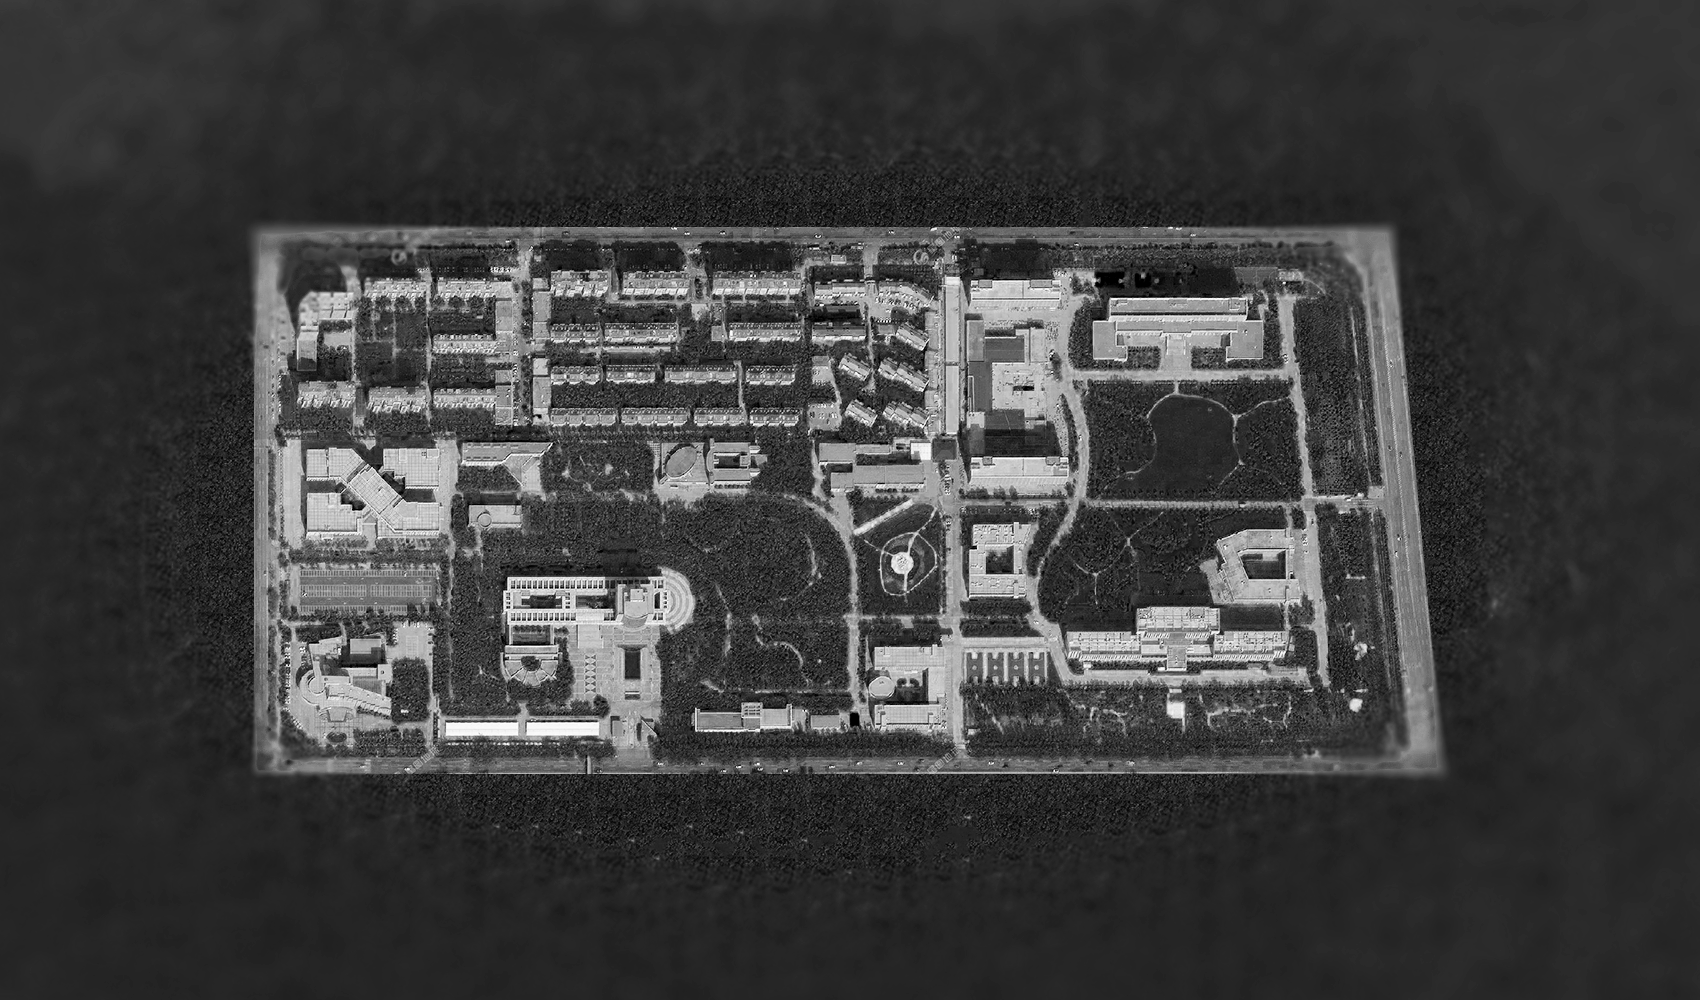
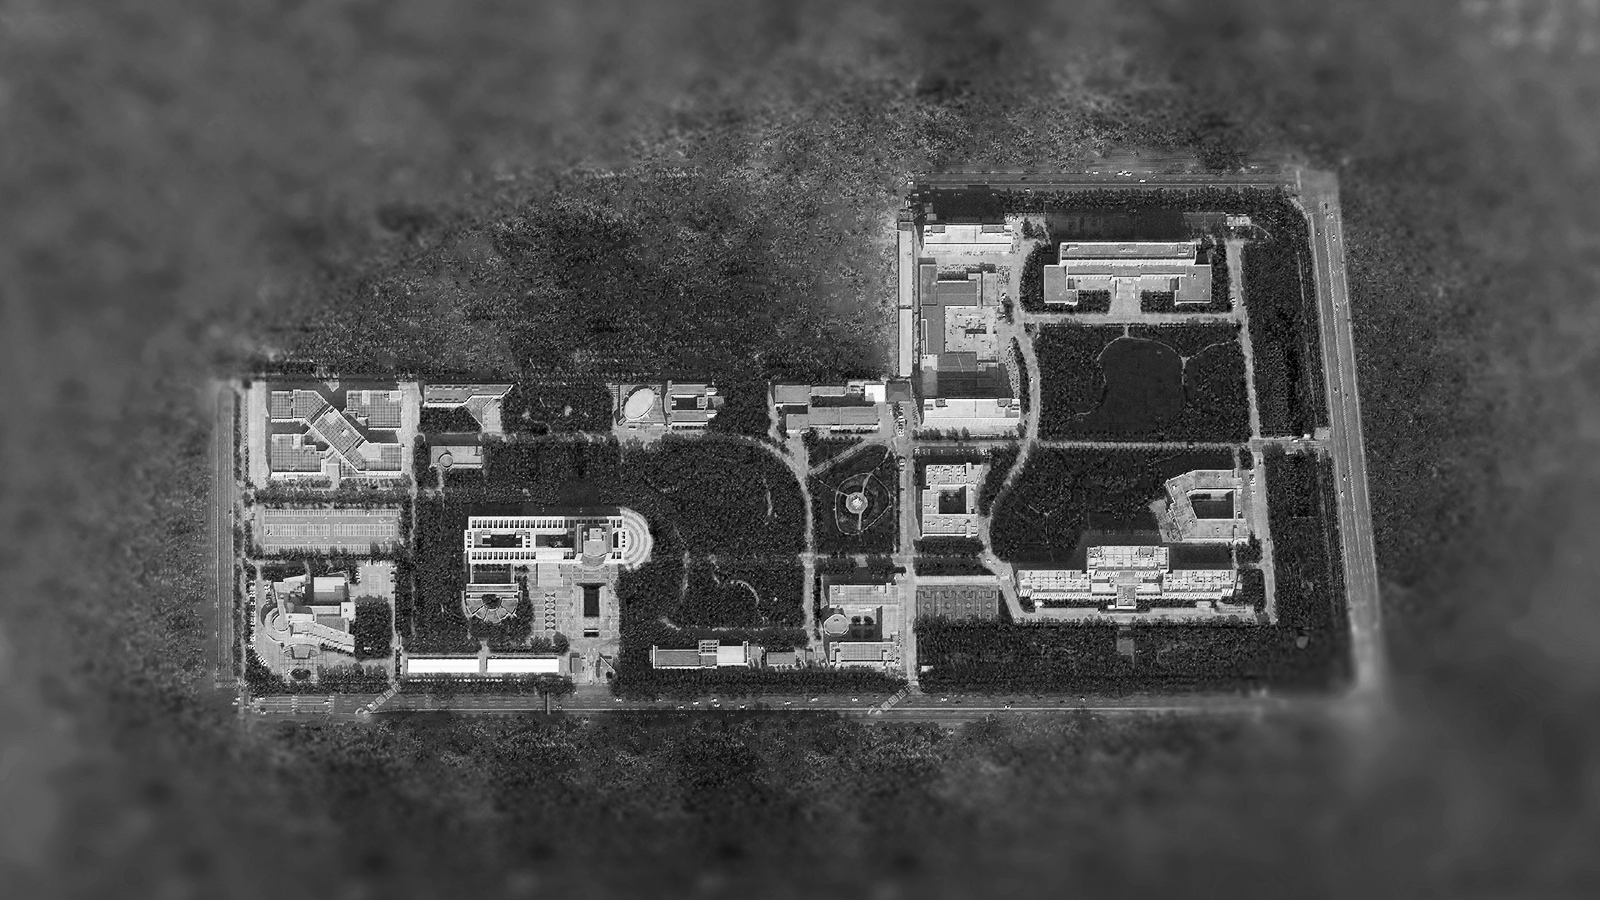
更换地图，优化过渡效果

diff --git a/assets/index.js b/assets/index.js
@@ -175,11 +175,11 @@ document.addEventListener('DOMContentLoaded', function() {
 
     // 图标数据 - 示例数据，可以根据需要修改
     const wencuiIconData = [
-        { x: 0.73, y: 0.443, icon: 'assets/img/icon/boss.png', class: 'icon-boss', title: '首领', content: '这是一个首领点，可以在这里挑战强大的敌人。' },
+        { x: 0.73, y: 0.443, icon: 'assets/img/icon/boss.png', class: 'icon-boss', title: '团委书记', content: '' },
         { x: 0.72, y: 0.48, icon: 'assets/img/icon/safe_box.png', class: 'icon-safe-box', title: '保险箱', content: '高价值容器<div class="divider"></div>高概率出现<div class="rewards"><img class="back-red" src="assets/img/rewards/heart-of-africa.png"></img><img class="back-red" src="assets/img/rewards/bust-of-claudius.png"></img><img class="back-red" src="assets/img/rewards/golden-gazelle.png"></img><img class="back-red" src="assets/img/rewards/precious-mechanical-watch.png"></img></div>' },
         { x: 0.7335, y: 0.4095, icon: 'assets/img/icon/small_safe_box.png', class: 'icon-safe-box', title: '骇客电脑', content: '高价值容器<div class="divider"></div>高概率出现<div class="rewards"><img class="back-red" src="assets/img/rewards/mandel-supercomputing-unit.png"></img><img class="back-red" src="assets/img/rewards/experimental-data.png"></img><img class="back-red" src="assets/img/rewards/quantum-storage.png"></img></div>' },
-        { x: 0.35, y: 0.3415, icon: 'assets/img/icon/boss.png', class: 'icon-boss', title: '首领', content: '这是一个首领点，可以在这里挑战强大的敌人。' },
-        { x: 0.3425, y: 0.29, icon: 'assets/img/icon/safe_box.png', class: 'icon-safe-box', title: '保险箱', content: '高价值容器<div class="divider"></div>高概率出现<div class="rewards"><img class="back-red" src="assets/img/rewards/heart-of-africa.png"></img><img class="back-red" src="assets/img/rewards/bust-of-claudius.png"></img><img class="back-red" src="assets/img/rewards/golden-gazelle.png"></img><img class="back-red" src="assets/img/rewards/precious-mechanical-watch.png"></img></div>' },
+        { x: 0.35, y: 0.3415, icon: 'assets/img/icon/boss.png', class: 'icon-boss', title: '书院领导', content: '' },
+        { x: 0.3425, y: 0.29, icon: 'assets/img/icon/safe_box.png', class: 'icon-safe-box', title: '保险箱', content: '高价值容器<div class="divider"></div>高概率出现<div class="rewards"><img class="back-red" src="assets/img/rewards/heart-of-africa.png"></img><img class="back-red" src="assets/img/rewards/gold-bar.png"></img><img class="back-red" src="assets/img/rewards/golden-gazelle.png"></img><img class="back-red" src="assets/img/rewards/precious-mechanical-watch.png"></img></div>' },
         { x: 0.495, y: 0.782, icon: 'assets/img/icon//evacuate_conditional.png', class: 'icon-evacuate', title: '南门撤离点', content: '撤离名额还有<span style="color: rgb(255, 236, 140);">1</span>名<div class="divider"></div>身份牌撤离点' },
         { x: 0.72, y: 0.402, icon: 'assets/img/icon/switch.png', class: 'icon-switch icon-connect', title: '拉闸', content: '启动两个开关以开启<span style="color: rgb(255, 236, 140);">拉闸撤离点：东门</span>' },
         { x: 0.754, y: 0.7, icon: 'assets/img/icon/switch.png', class: 'icon-switch icon-connect', title: '拉闸', content: '启动两个开关以开启<span style="color: rgb(255, 236, 140);">拉闸撤离点：东门</span>' },
@@ -191,7 +191,10 @@ document.addEventListener('DOMContentLoaded', function() {
         { x: 0.515, y: 0.315, icon: 'assets/img/icon/small_safe_box.png', class: 'icon-safe-box', title: '骇客电脑', content: '高价值容器<div class="divider"></div>高概率出现<div class="rewards"></div>' },
         { x: 0.76, y: 0.68, icon: 'assets/img/icon/small_safe_box.png', class: 'icon-safe-box', title: '骇客电脑', content: '高价值容器<div class="divider"></div>高概率出现<div class="rewards"></div>' },
         { x: 0.65, y: 0.31, icon: 'assets/img/icon/high_value_task.png', class: 'icon-task', title: '【高价值】', content: '任务内容<div class="divider"></div>地点：<div class="divider"></div>报酬：<div class="divider"></div>行动内概率产出<div class="rewards"></div>' },
-        { x: 0.1135, y: 0.6, icon: 'assets/img/icon/task.png', class: 'icon-task', title: '任务', content: '这里有一个任务等待完成。' },
+        { x: 0.71, y: 0.7, icon: 'assets/img/icon/task.png', class: 'icon-task', title: '任务', content: '任务内容<div class="divider"></div>地点：<div class="divider"></div>报酬：<div class="divider"></div>行动内概率产出<div class="rewards"></div>' },
+        { x: 0.555, y: 0.54, icon: 'assets/img/icon/task.png', class: 'icon-task', title: '任务', content: '任务内容<div class="divider"></div>地点：<div class="divider"></div>报酬：<div class="divider"></div>行动内概率产出<div class="rewards"></div>' },
+        { x: 0.46, y: 0.645, icon: 'assets/img/icon/task.png', class: 'icon-task', title: '任务', content: '任务内容<div class="divider"></div>地点：<div class="divider"></div>报酬：<div class="divider"></div>行动内概率产出<div class="rewards"></div>' },
+        { x: 0.26, y: 0.22, icon: 'assets/img/icon/task.png', class: 'icon-task', title: '任务', content: '任务内容<div class="divider"></div>地点：<div class="divider"></div>报酬：<div class="divider"></div>行动内概率产出<div class="rewards"></div>' },
     ];
 
     const wencuiLocationData = [
@@ -208,15 +211,17 @@ document.addEventListener('DOMContentLoaded', function() {
     
     // 示例：第二个地图的数据
     const helanshanIconData = [
-        { x: 0.5, y: 0.5, icon: 'assets/img/icon/boss.png', class: 'icon-boss', title: '首领', content: '这是另一个地图的首领点。' },
-        { x: 0.3, y: 0.7, icon: 'assets/img/icon/safe_box.png', class: 'icon-safe-box', title: '保险箱', content: '另一个地图的保险箱。' },
+        { x: 0.365, y: 0.62, icon: 'assets/img/icon/boss.png', class: 'icon-boss icon-mosaic', title: '校长', content: '' },
+        { x: 0.372, y: 0.6, icon: 'assets/img/icon/safe_box.png', class: 'icon-safe-box', title: '保险箱', content: '高价值容器<div class="divider"></div>高概率出现<div class="rewards"><img class="back-red" src="assets/img/rewards/heart-of-africa.png"></img><img class="back-red" src="assets/img/rewards/bust-of-claudius.png"></img><img class="back-red" src="assets/img/rewards/golden-gazelle.png"></img><img class="back-red" src="assets/img/rewards/precious-mechanical-watch.png"></img></div>' },
         { x: 0.8, y: 0.3, icon: 'assets/img/icon/evacuate_conditional.png', class: 'icon-evacuate', title: '撤离点', content: '另一个地图的撤离点。' }
     ];
     
     const helanshanLocationData = [
-        { x: 0.5, y: 0.5, title: '中央广场'},
-        { x: 0.3, y: 0.7, title: '北区'},
-        { x: 0.8, y: 0.3, title: '南区'}
+        { x: 0.372, y: 0.59, title: '主楼'},
+        { x: 0.312, y: 0.636, title: '兰山一教'},
+        { x: 0.2, y: 0.69, title: '学术交流中心'},
+        { x: 0.208, y: 0.477, title: '未来教室'},
+        { x: 0.21, y: 0.58, title: '停车场'}
     ];
     
     // 示例：第三个地图的数据
@@ -237,16 +242,16 @@ document.addEventListener('DOMContentLoaded', function() {
             imageUrl: 'assets/img/map/wencui.png',
             iconData: wencuiIconData,
             locationData: wencuiLocationData,
-            name: '文昌校区'
+            name: '文萃校区'
         },
         'helanshan': {
-            imageUrl: 'assets/img/map/helanshan.png', // 使用相同的图片作为示例
+            imageUrl: 'assets/img/map/helanshan.png',
             iconData: helanshanIconData,
             locationData: helanshanLocationData,
             name: '贺兰山校区'
         },
         'huaiyuan': {
-            imageUrl: 'assets/img/map/huaiyuan.png', // 使用相同的图片作为示例
+            imageUrl: 'assets/img/map/huaiyuan.png',
             iconData: huaiyuanIconData,
             locationData: huaiyuanLocationData,
             name: '怀远校区'
@@ -334,7 +339,8 @@ document.addEventListener('DOMContentLoaded', function() {
         try {
             // 创建一个临时的Canvas元素来获取地图边缘的颜色
             const canvas = document.createElement('canvas');
-            const ctx = canvas.getContext('2d');
+            // 添加willReadFrequently属性以优化getImageData性能
+            const ctx = canvas.getContext('2d', { willReadFrequently: true });
             
             // 设置canvas尺寸为地图图片的尺寸
             canvas.width = mapImg.naturalWidth;
@@ -1051,13 +1057,6 @@ document.addEventListener('DOMContentLoaded', function() {
             return;
         }
         
-        // 更新地图图片
-        mapImg.src = mapData.imageUrl;
-        
-        // 更新当前使用的数据
-        nowIconData = mapData.iconData;
-        nowLocationData = mapData.locationData;
-        
         // 保存到本地存储
         try {
             localStorage.setItem('lastSelectedMap', mapId);
@@ -1069,26 +1068,84 @@ document.addEventListener('DOMContentLoaded', function() {
         // 隐藏弹窗
         hideMapSelectPopup();
         
-        // 重新初始化地图
-        resetMap();
-        initializeMap();
+        // 为body添加背景色过渡效果
+        document.body.style.transition = 'background-color 0.25s ease-in-out';
         
-        console.log('已切换到地图:', mapData.name);
+        // 添加淡出动画效果
+        map.style.transition = 'opacity 0.25s ease-out';
+        map.style.opacity = '0';
+        
+        // 延迟清理资源和加载新地图，等待淡出动画完成
+        setTimeout(() => {
+            // 清理旧资源
+            resetMap();
+            
+            // 更新当前使用的数据
+            nowIconData = mapData.iconData;
+            nowLocationData = mapData.locationData;
+            
+            // 创建一个新的Image对象来预加载新地图图片
+            const tempImg = new Image();
+            tempImg.onload = function() {
+                // 当新地图图片加载完成后，设置新图片
+                mapImg.src = mapData.imageUrl;
+                
+                // 使用setTimeout确保浏览器有足够时间处理图片更新
+                setTimeout(() => {
+                    // 重新初始化地图，但不立即显示
+                    initializeMap();
+                    
+                    // 添加淡入动画效果
+                    map.style.opacity = '1';
+                    map.style.transition = 'opacity 0.25s ease-in';
+                    
+                    console.log('已切换到地图:', mapData.name);
+                }, 100);
+            };
+            tempImg.onerror = function() {
+                console.error('加载地图图片失败:', mapData.imageUrl);
+                // 即使加载失败也尝试初始化并显示
+                initializeMap();
+                map.style.opacity = '1';
+            };
+            tempImg.src = mapData.imageUrl;
+        }, 300); // 等待淡出动画完成
     }
     
     // 重置地图
     function resetMap() {
+        // 隐藏弹窗
+        hidePopup();
+        
         // 移除所有图标
         const icons = document.querySelectorAll('.icon');
-        icons.forEach(icon => icon.remove());
+        icons.forEach(icon => {
+            try {
+                icon.remove();
+            } catch (e) {
+                console.warn('移除图标失败:', e);
+            }
+        });
         
         // 移除所有连接线
         const connections = document.querySelectorAll('.connection-line');
-        connections.forEach(connection => connection.remove());
+        connections.forEach(connection => {
+            try {
+                connection.remove();
+            } catch (e) {
+                console.warn('移除连接线失败:', e);
+            }
+        });
         
         // 移除所有地名
         const locations = document.querySelectorAll('.location');
-        locations.forEach(location => location.remove());
+        locations.forEach(location => {
+            try {
+                location.remove();
+            } catch (e) {
+                console.warn('移除地名失败:', e);
+            }
+        });
         
         // 重置地图状态
         mapState.scale = 1;
